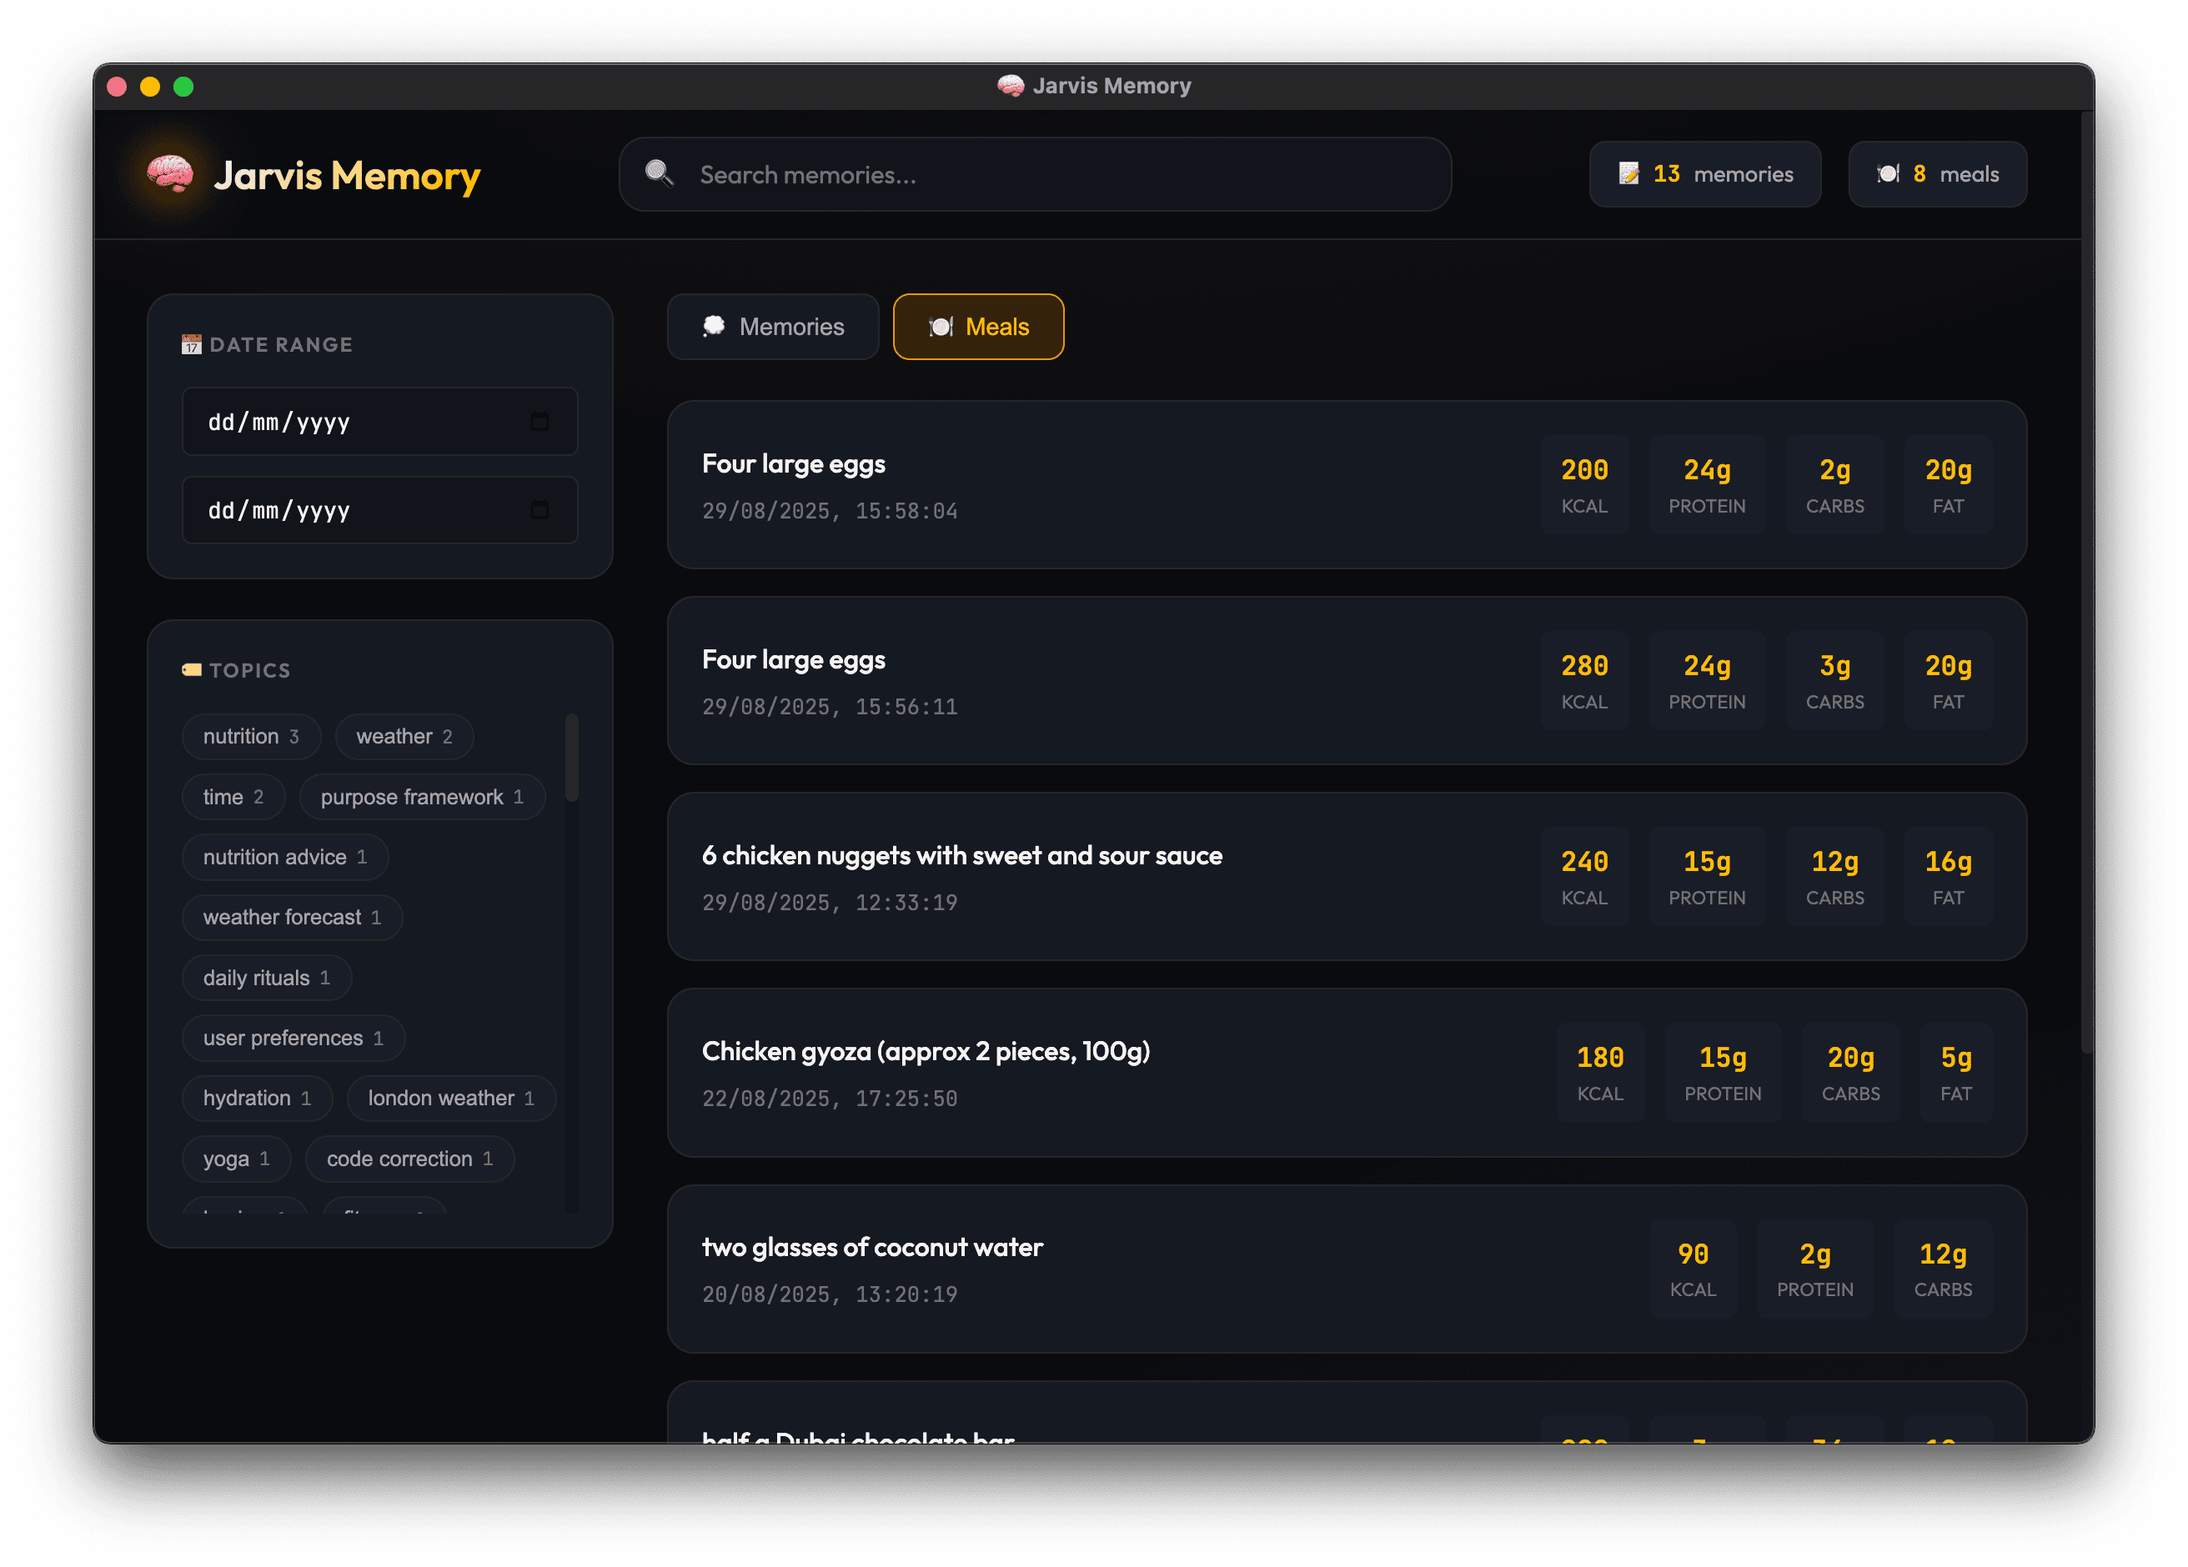
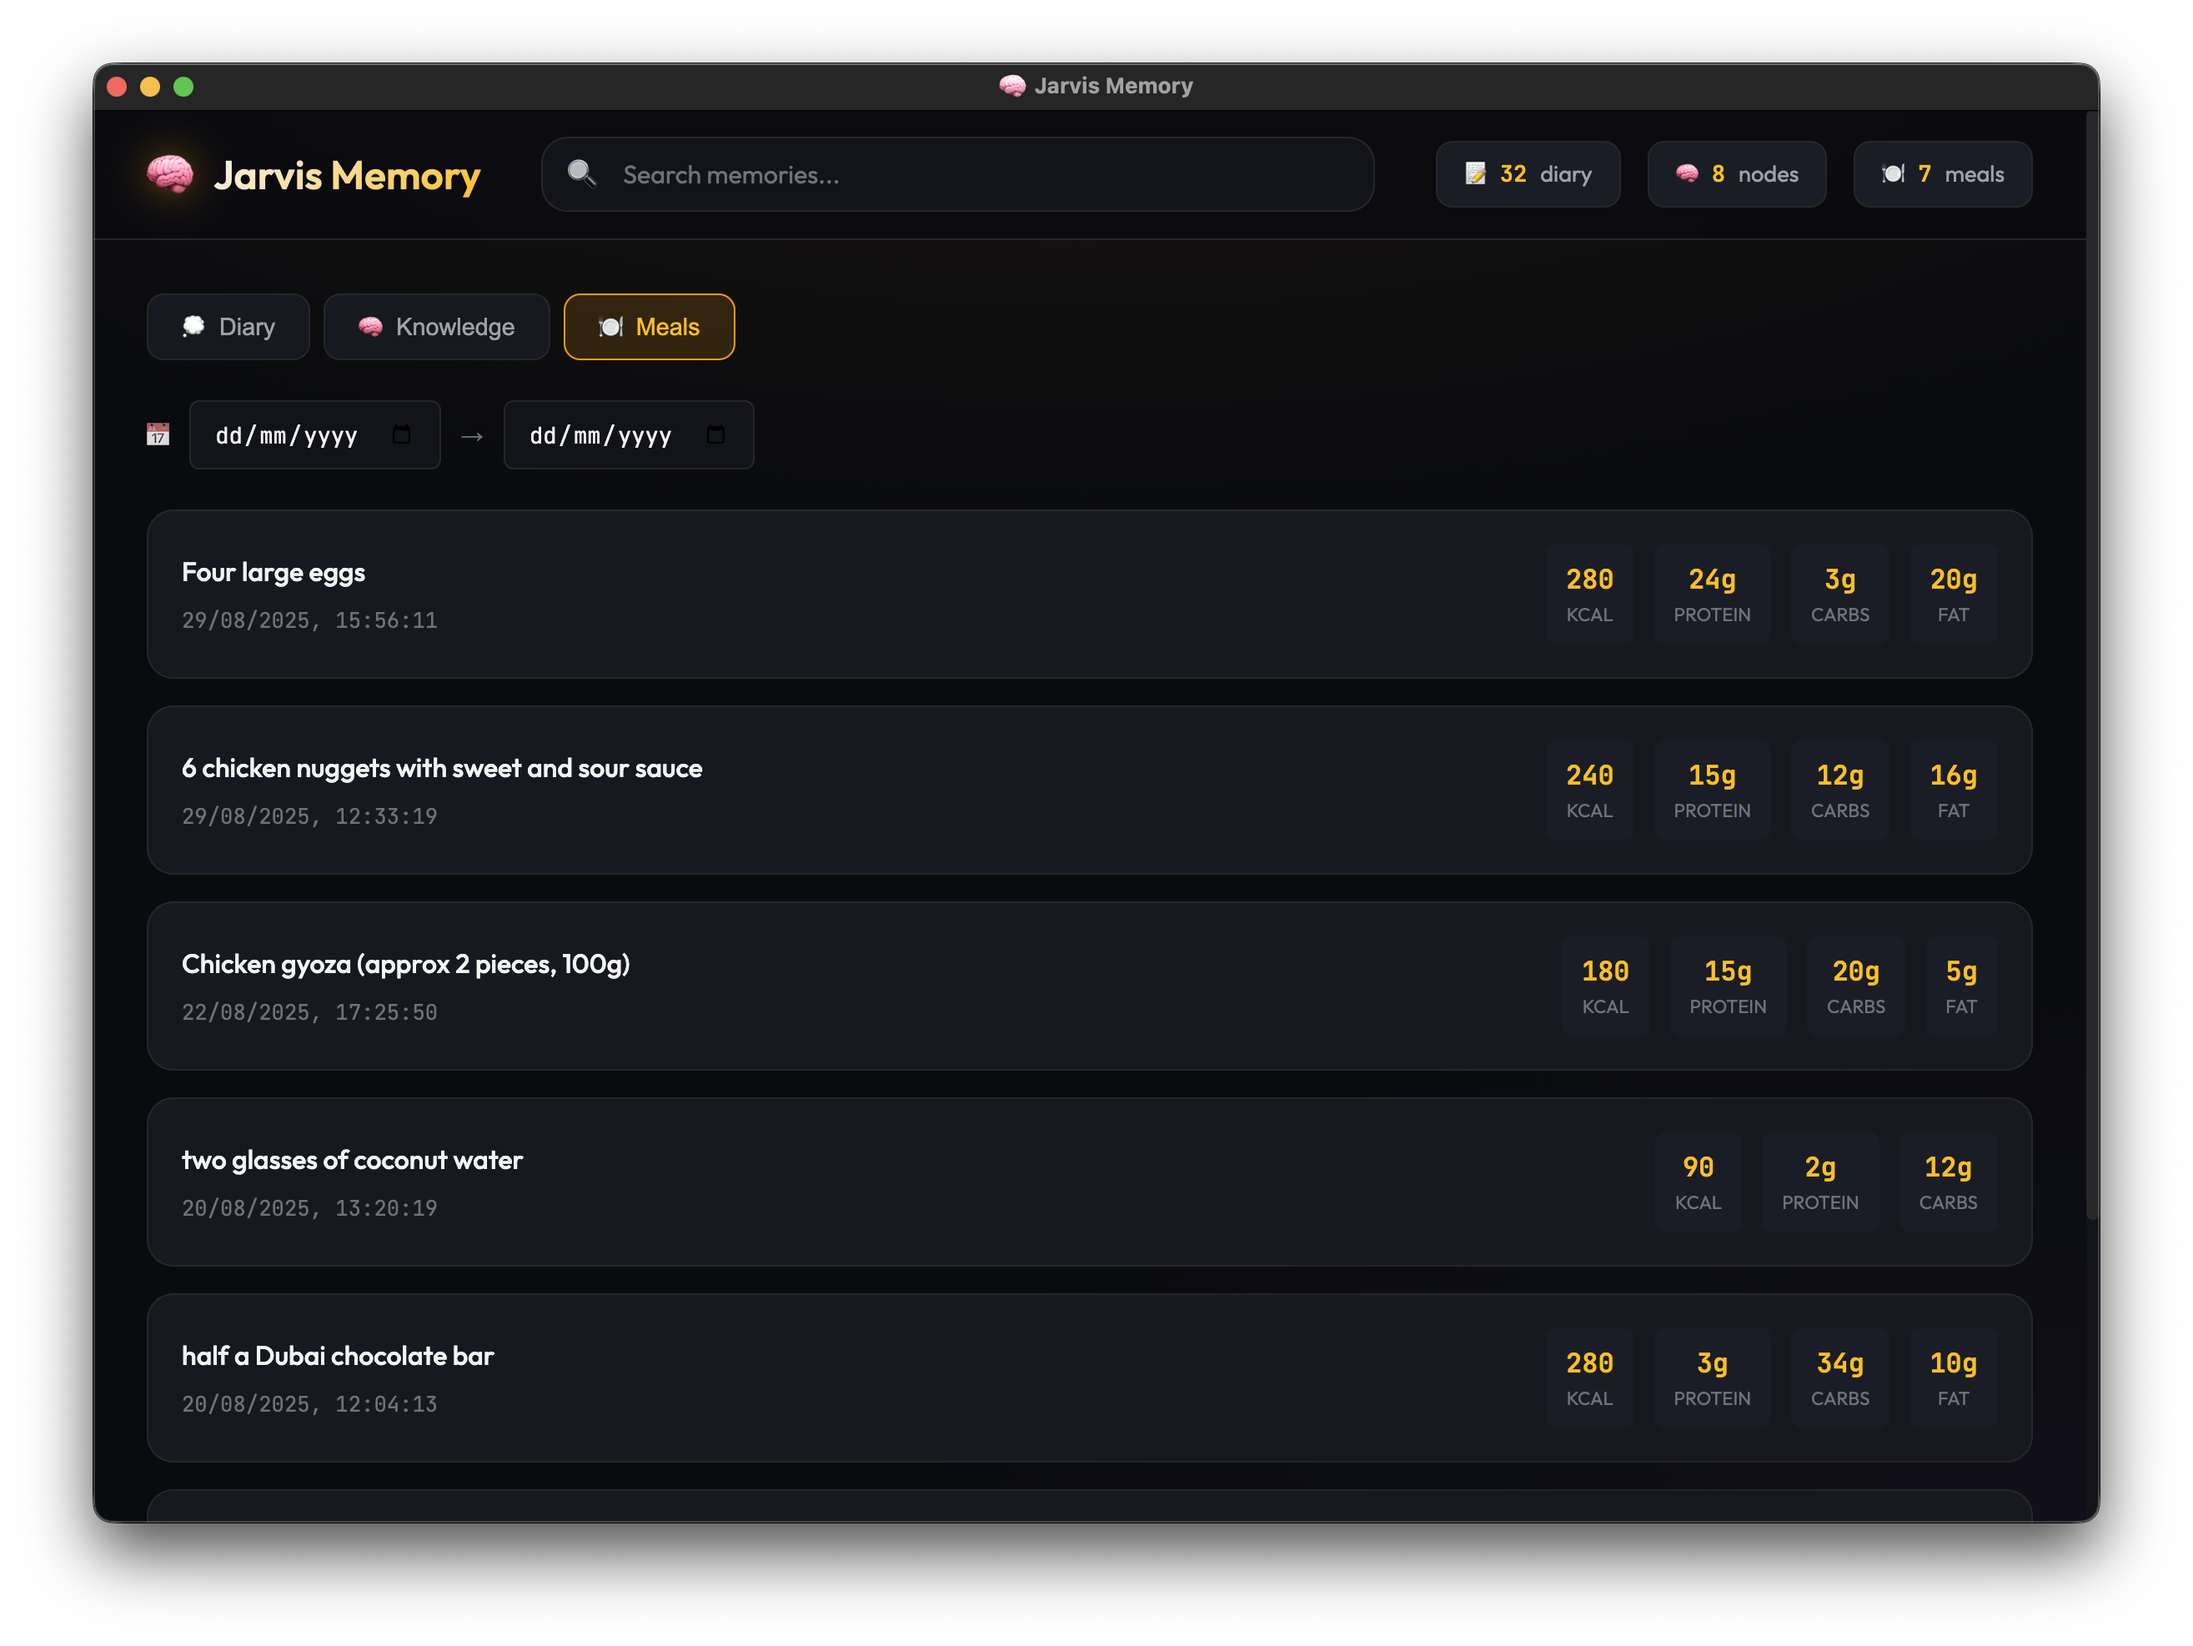
docs: update memory viewer screenshots with all 3 tabs
Replace the old 2-tab screenshots (memories + meals) with new ones
showing all 3 tabs: Diary (with sidebar filters), Knowledge (graph
explorer with tree view), and Meals (with inline date filters and
macro badges).

diff --git a/README.md b/README.md
@@ -15,8 +15,9 @@
 </p>
 
 <p align="center">
-  <img src="docs/img/memory-viewer-memories.png" alt="Memory Viewer - Conversations" width="400">
-  <img src="docs/img/memory-viewer-meals.png" alt="Memory Viewer - Nutrition" width="400">
+  <img src="docs/img/memory-viewer-diary.png" alt="Memory Viewer - Diary" width="280">
+  <img src="docs/img/memory-viewer-knowledge.png" alt="Memory Viewer - Knowledge Graph" width="280">
+  <img src="docs/img/memory-viewer-meals.png" alt="Memory Viewer - Meals" width="280">
 </p>
 
 ## Why Jarvis?
